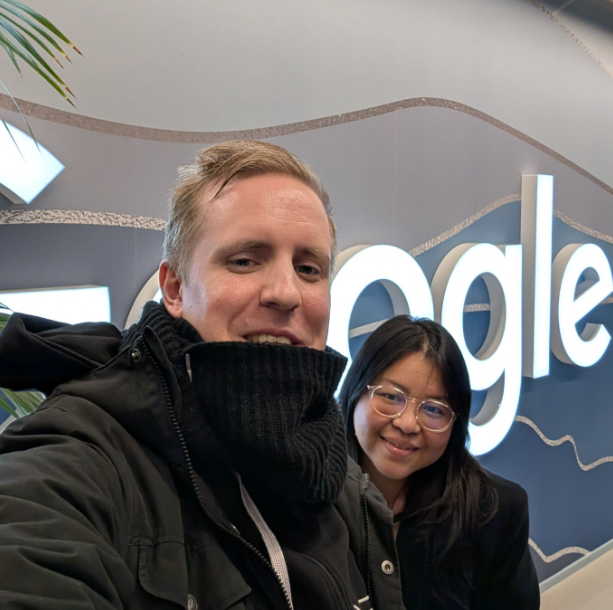
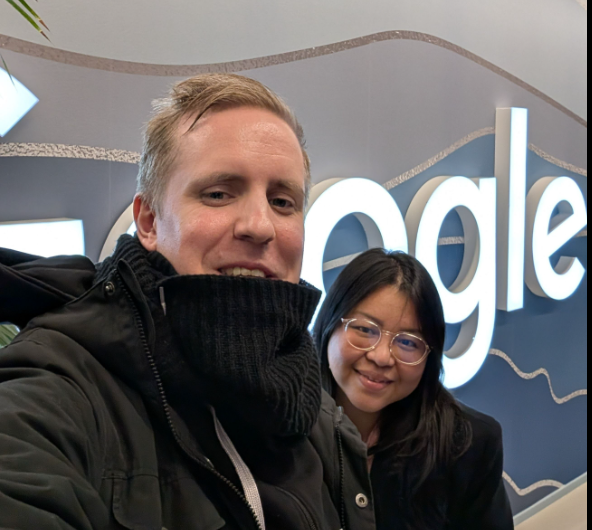
fixed images

diff --git a/index.html b/index.html
@@ -154,24 +154,24 @@
             <div class="grid md:grid-cols-2 gap-16 items-center">
                 <div class="relative group fade-in-on-scroll" id="about-slider">
                     <div class="absolute -inset-1 bg-gradient-to-r from-cyan-500 to-blue-600 rounded-2xl blur opacity-25 group-hover:opacity-50 transition duration-1000 group-hover:duration-200"></div>
-                    <div class="relative rounded-2xl overflow-hidden border border-white/10 bg-slate-900 h-64 md:h-96">
+                    <div class="relative rounded-2xl overflow-hidden border border-white/10 bg-slate-900 h-64 md:h-96 lg:h-[500px]">
                         <!-- Slide 1 -->
                         <div class="slide absolute inset-0 transition-opacity duration-1000 opacity-100" data-duration="7000">
-                            <img src="assets/winning-grafana.png" alt="Hackathon Winner" class="w-full h-full object-cover">
+                            <img src="assets/winning-grafana.png" alt="Hackathon Winner" class="w-full h-full object-cover object-top">
                             <div class="absolute bottom-0 left-0 right-0 p-6 bg-gradient-to-t from-slate-950 to-transparent">
                                 <p class="text-white font-medium">🏆 Grafana Hackathon Winner at HiQ HQ</p>
                             </div>
                         </div>
                         <!-- Slide 2 -->
                         <div class="slide absolute inset-0 transition-opacity duration-1000 opacity-0" data-duration="4000">
-                            <img src="assets/me-google.png" alt="Anton at Google" class="w-full h-full object-cover">
+                            <img src="assets/me-google.png" alt="Anton at Google" class="w-full h-full object-cover object-top">
                             <div class="absolute bottom-0 left-0 right-0 p-6 bg-gradient-to-t from-slate-950 to-transparent">
                                 <p class="text-white font-medium">📍 Google Office Visit</p>
                             </div>
                         </div>
                         <!-- Slide 3 -->
                         <div class="slide absolute inset-0 transition-opacity duration-1000 opacity-0" data-duration="4000">
-                            <img src="assets/me_at_AWS_HQ_small.jpg" alt="Anton at AWS HQ" class="w-full h-full object-cover">
+                            <img src="assets/me_at_AWS_HQ_small.jpg" alt="Anton at AWS HQ" class="w-full h-full object-cover object-top">
                             <div class="absolute bottom-0 left-0 right-0 p-6 bg-gradient-to-t from-slate-950 to-transparent">
                                 <p class="text-white font-medium">📍 AWS HQ Visit</p>
                             </div>
